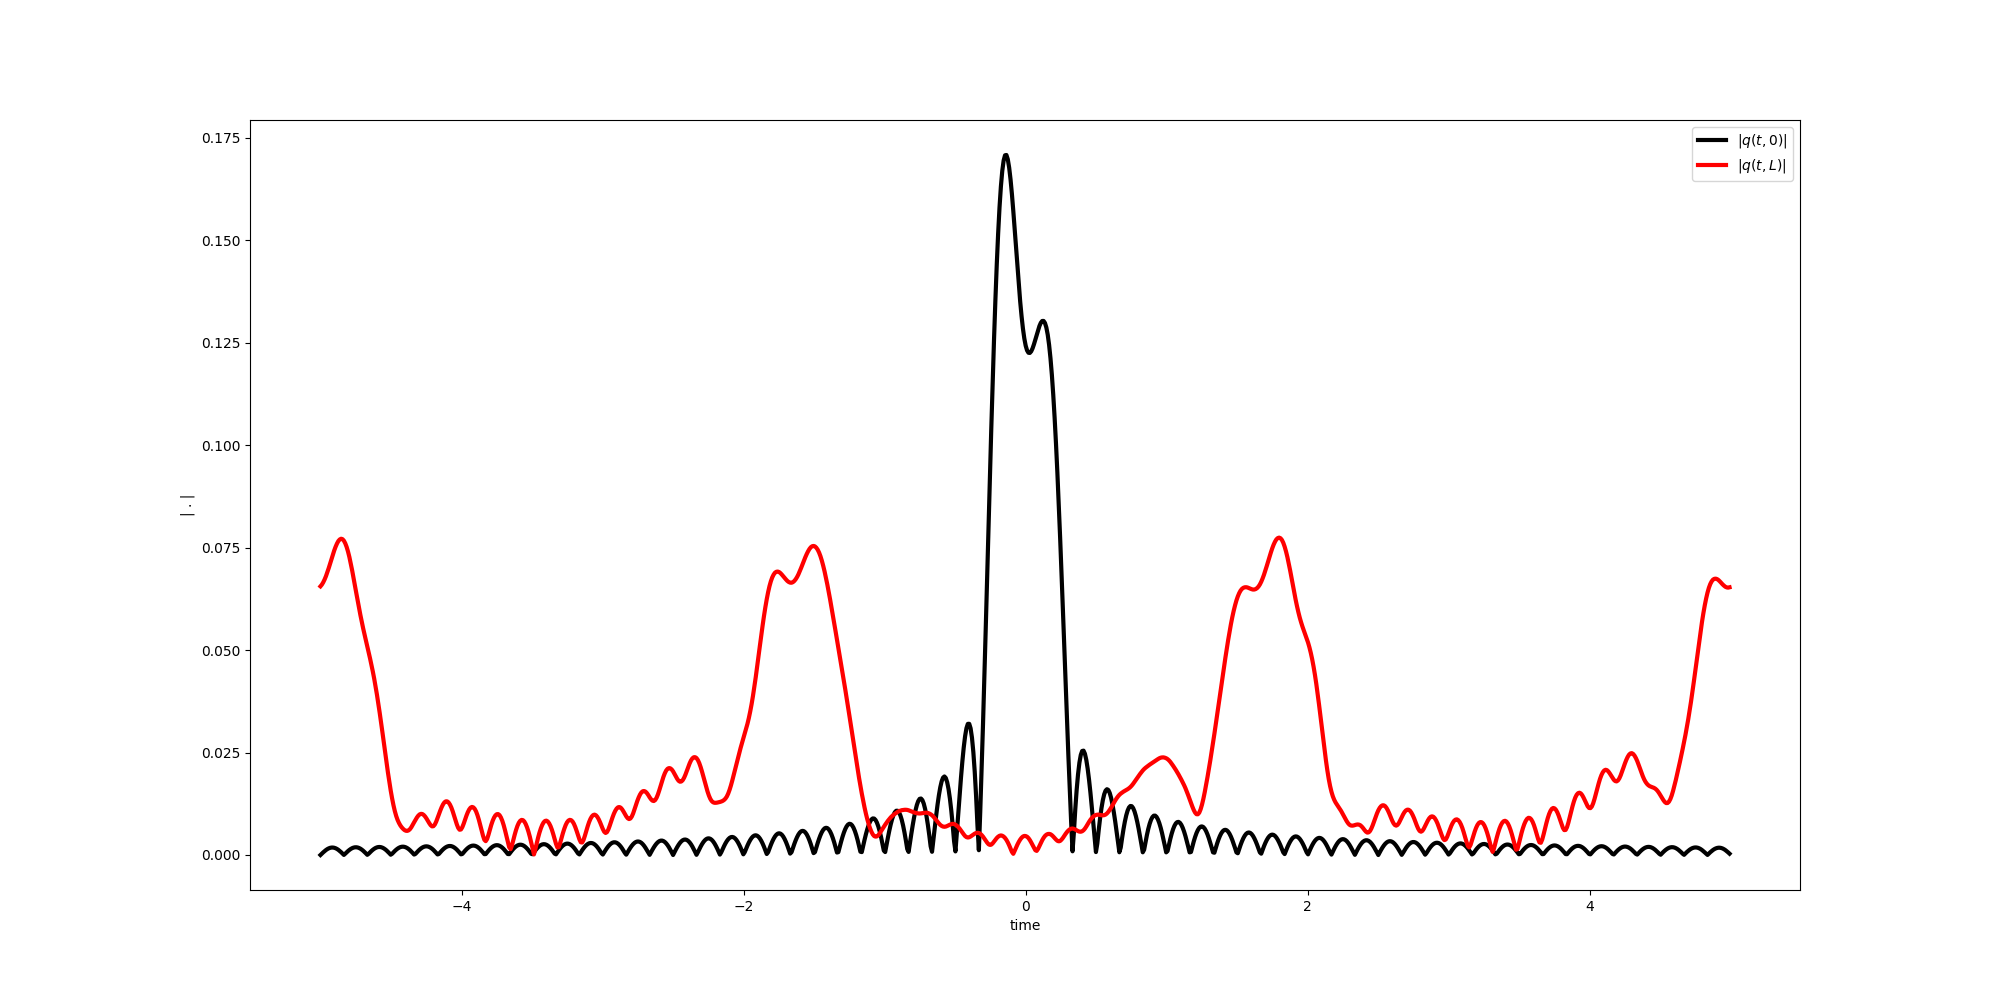
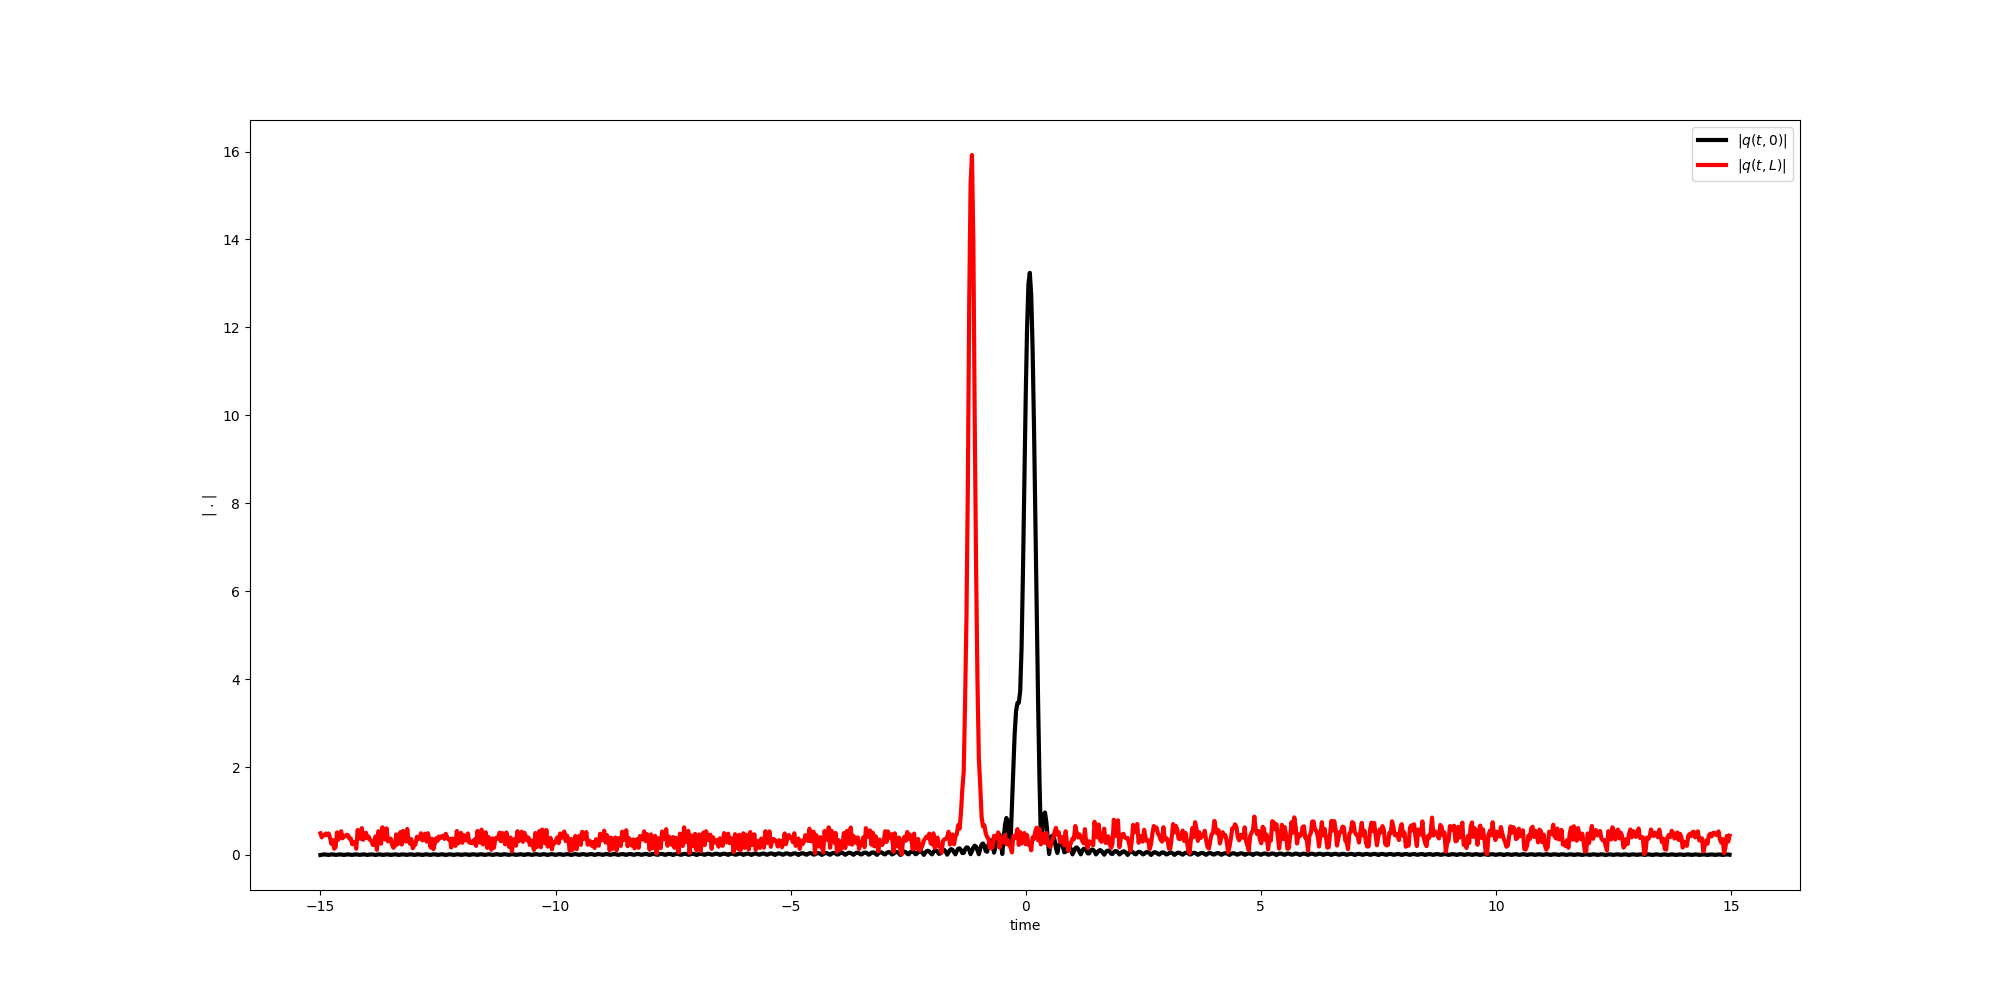
tested with mansoor

diff --git a/nnet_gen.py b/nnet_gen.py
@@ -3,6 +3,7 @@ from params import Params
 import numpy as np
 from math import *
 from scipy.linalg import dft
+import scipy
 
 class Generative_Model:
     
@@ -32,30 +33,39 @@ class Generative_Model:
         
         # return x * np.exp(1j*2*dz* (x.T).dot(x))
         
-        return x * np.exp(1j*2*dz* np.sum(np.abs(x)**2))
+        return x * np.exp(-1j*2*dz* np.abs(x)**2)
+        
+        # return x
     
     def nnet_generator(self,x):
         
         n = len(x)
         f = self.params.fft_frequencies
-        w = 2*pi*f
+        w = np.fft.fftshift(2*pi*self.params.f)
         
         z = self.params.Length
-        dz = z / self.params.nz
+        dz = 1 / self.params.nz
         
         h = np.exp(1j*w**2 * dz)
         
-        D = dft(n) / np.sqrt(n)
+        # D = dft(n) / np.sqrt(n)
+        # 
+        # W = ((D.T).conjugate().dot(np.diag(h))).dot(D)
+        # 
         
-        W = ((D.T).conjugate().dot(np.diag(h))).dot(D)
+        
         
         for i in range(self.params.nz):
             
-            x = np.dot(W,x)
+            # x = np.dot(W,x)
+            
+            # x = np.fft.ifft(np.diag(h).dot(np.fft.fft(x)))
+            
+            x = np.fft.ifft(h * np.fft.fft(x))
             
             x = self.activation(x,dz)
             
-            x = x + self.noise(n=n,sigma2=0)
+            # x = x + self.noise(n=n,sigma2=0)
             
         y = x
         

diff --git a/main_test_generative.py b/main_test_generative.py
@@ -6,8 +6,10 @@ import numpy as np
 import matplotlib.pyplot as plt
 from tensorflow import keras
 
-params = Params(N=2**10,nz=500,T=10,number_symbols=3)
-dg = DataGenerator(N=2**10,T=10,number_symbols=3)
+T = 30
+
+params = Params(N=2**10,nz=1000,T=T,number_symbols=3)
+dg = DataGenerator(N=2**10,T=T,number_symbols=3)
 
 
 
@@ -21,11 +23,15 @@ NNET_GEN = Generative_Model(params=params)
 
 x = dg.q0t
 
-x /= np.sqrt((np.sum(np.abs(x)**2)))
+# x = np.exp(-params.t**2/2)
+
+# x = 1 / np.cosh(params.t)
+
+# x = np.sinc()
+
+# x /= np.sqrt((np.sum(np.abs(x)**2)))
 
 y = NNET_GEN.nnet_generator(x=x)
-
-plt.figure(figsize=(20,10))
 
 plt.figure(figsize=(20,10))
 
@@ -37,10 +43,27 @@ plt.plot(params.t,np.abs(y),color='red',label=r'$|q(t,L)|$',lw=3)
 plt.legend()
 plt.savefig('plots/q0t_vs_qLt_generaive_model.png')
 
+plt.clf()
+
+q0f = np.fft.fftshift(np.fft.fft(x))
+
+yf = np.fft.fftshift(np.fft.fft(y))
+
+plt.figure(figsize=(20,10))
+
+plt.xlabel(r'frequency')
+plt.ylabel(r'| . |')
+plt.plot(params.f,np.abs(q0f),color='black',label=r'$|q(t,0)|$',lw=3)
+plt.plot(params.f,np.abs(yf),color='red',label=r'$|q(t,L)|$',lw=3)
+
+plt.legend()
+plt.savefig('plots/q0f_vs_qLf_generaive_model.png')
+
+
 # print(np.sum(np.abs(y)**2))
 
 # calculate BER
-
+exit()
 y = np.asarray([[y[i].real , y[i].imag] for i in range(len(y))])
 
 print(y.shape)

diff --git a/test_mansoor.py b/test_mansoor.py
@@ -1,0 +1,37 @@
+import numpy as np
+from numpy.fft import fft,ifft,fftshift
+import matplotlib.pyplot as plt
+
+T = 500
+N=2**11
+dt=T/N
+z=1
+t = np.arange(start=-T/2,stop=T/2,step=dt)
+
+F=1/dt
+df=1/T
+f = np.arange(start=-F/2,stop=F/2,step=df)
+w = 2*np.pi*f 
+x = np.exp(-t**2/5)
+
+
+h = np.exp(1j*w**2*z)
+y = ifft(h*fftshift(fft(x)))
+
+print(np.linalg.norm(x,ord=2),np.linalg.norm(y,ord=2))
+
+plt.plot(t,np.abs(x))
+plt.plot(t,np.abs(y))
+plt.show()
+
+
+
+plt.clf()
+
+xf = fftshift(fft(x))
+yf = fftshift(fft(y))
+
+
+plt.plot(f,np.abs(xf))
+plt.plot(f,np.abs(yf))
+plt.show()
